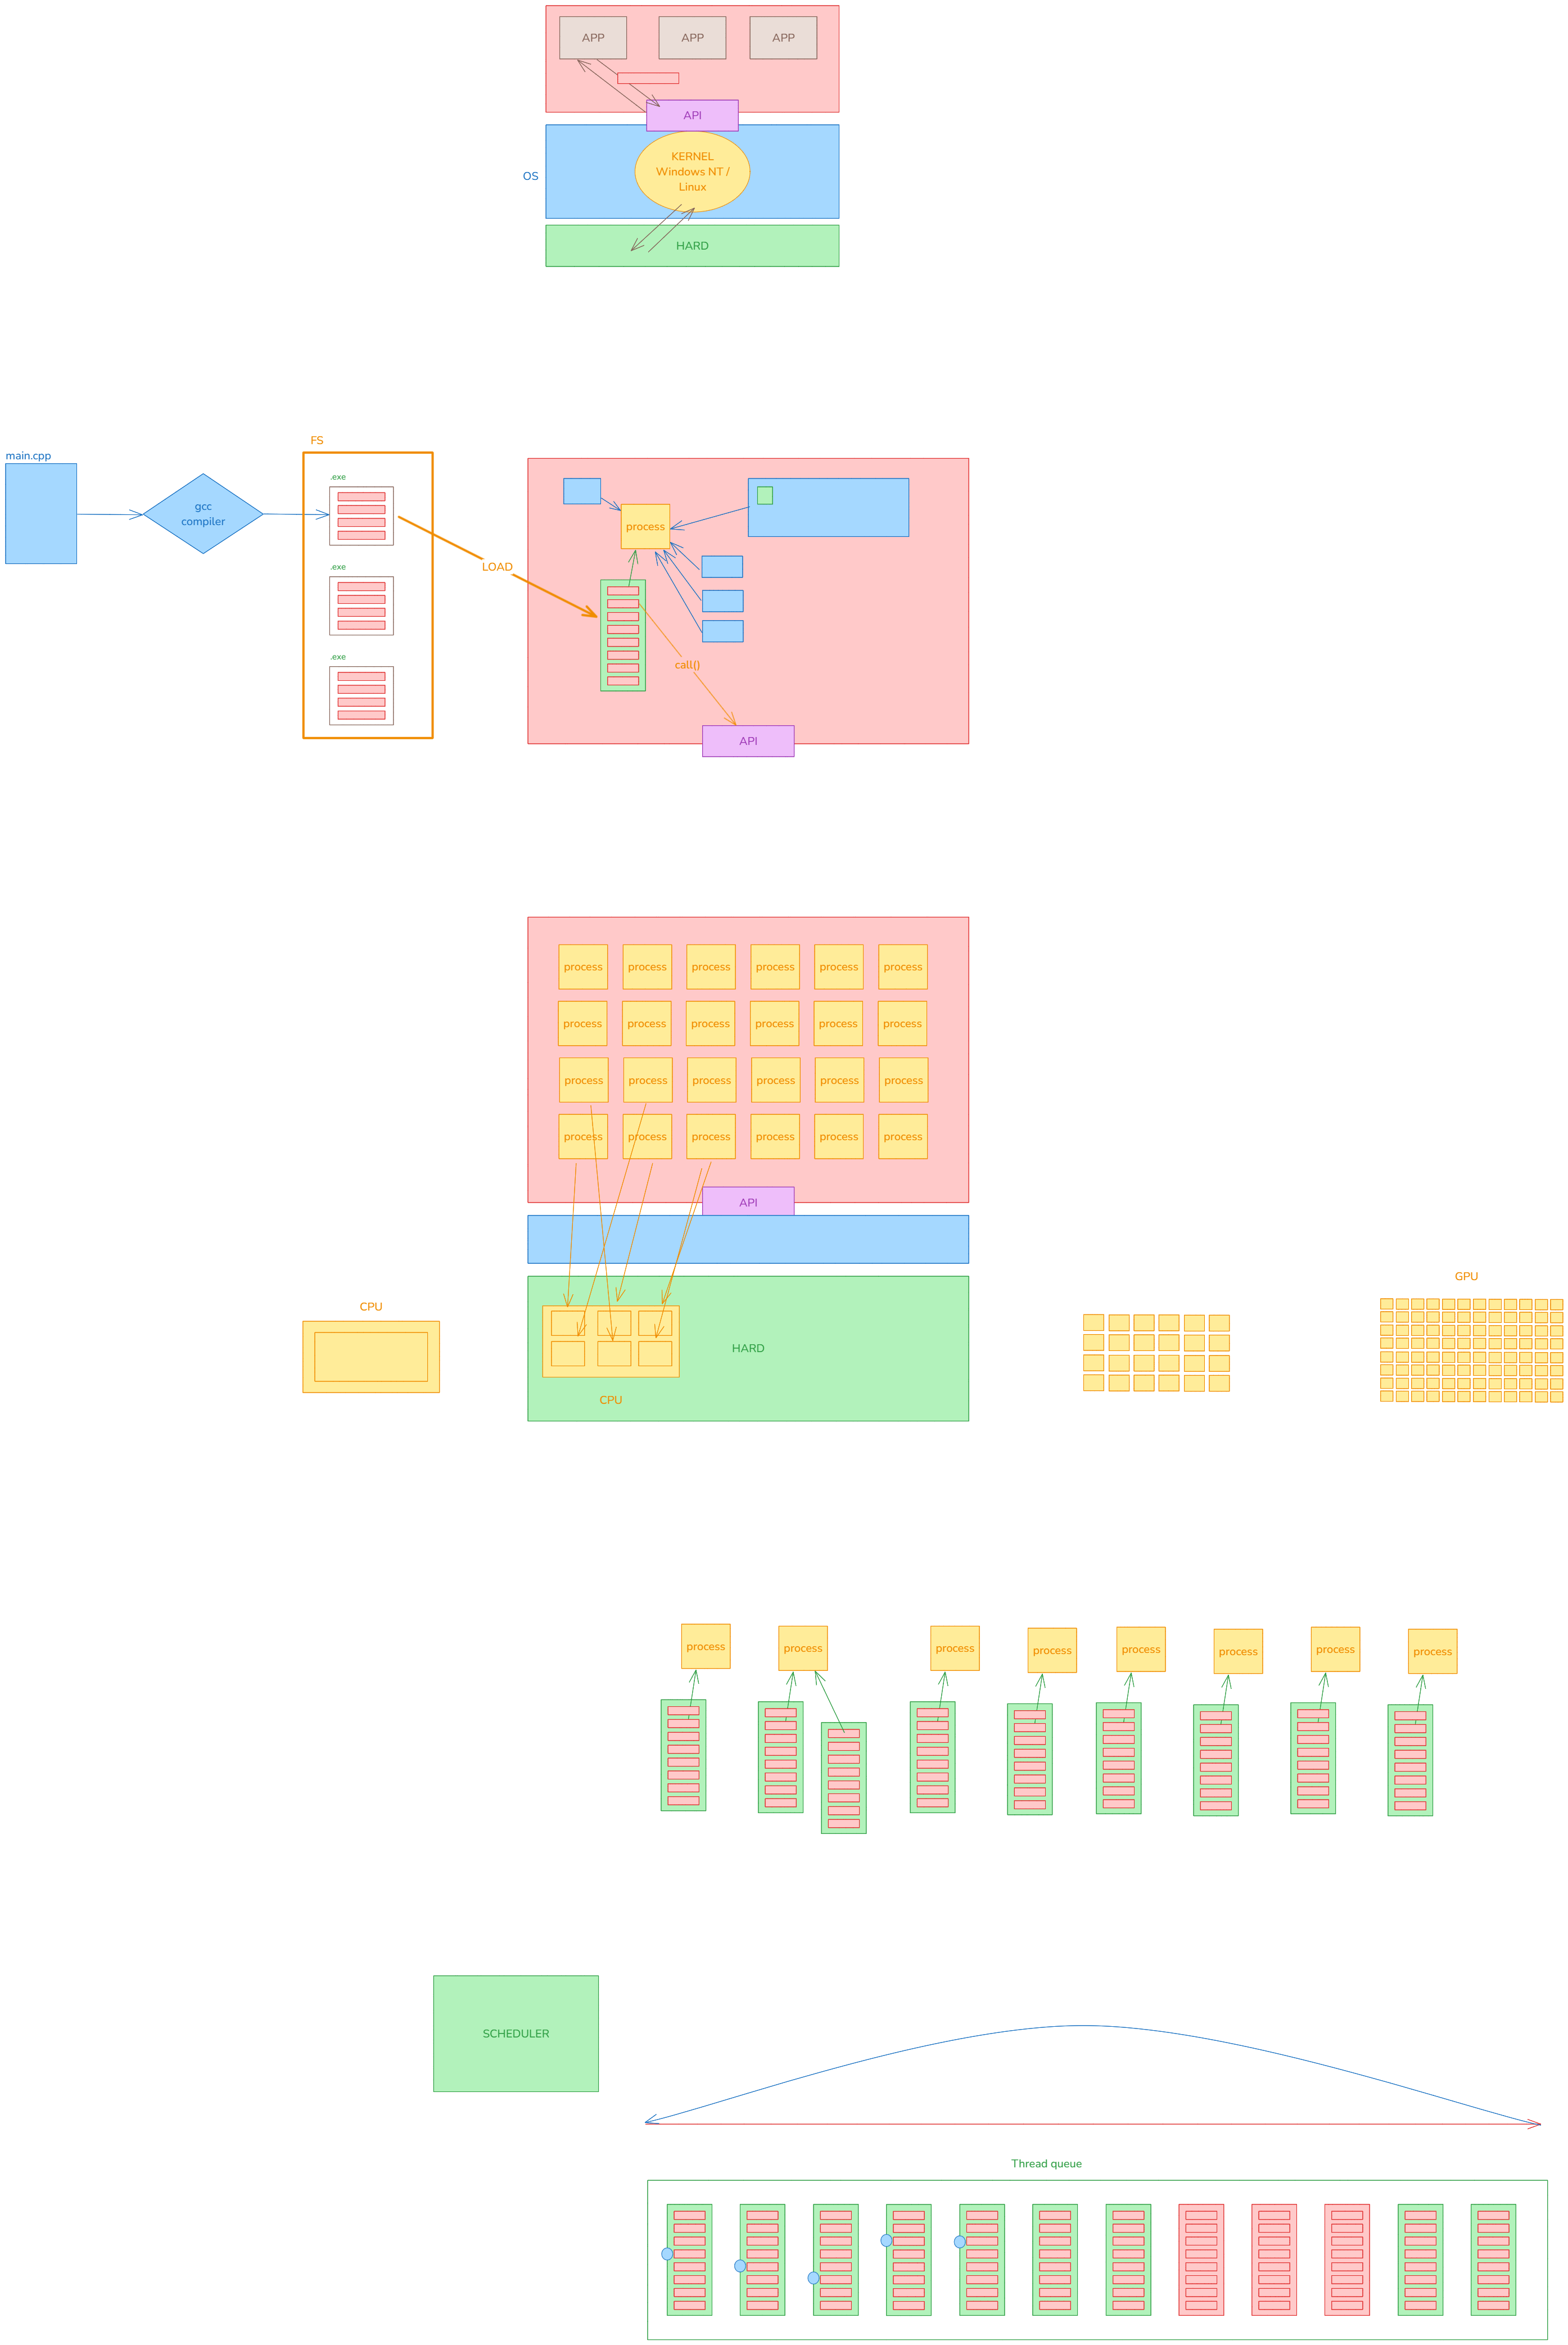
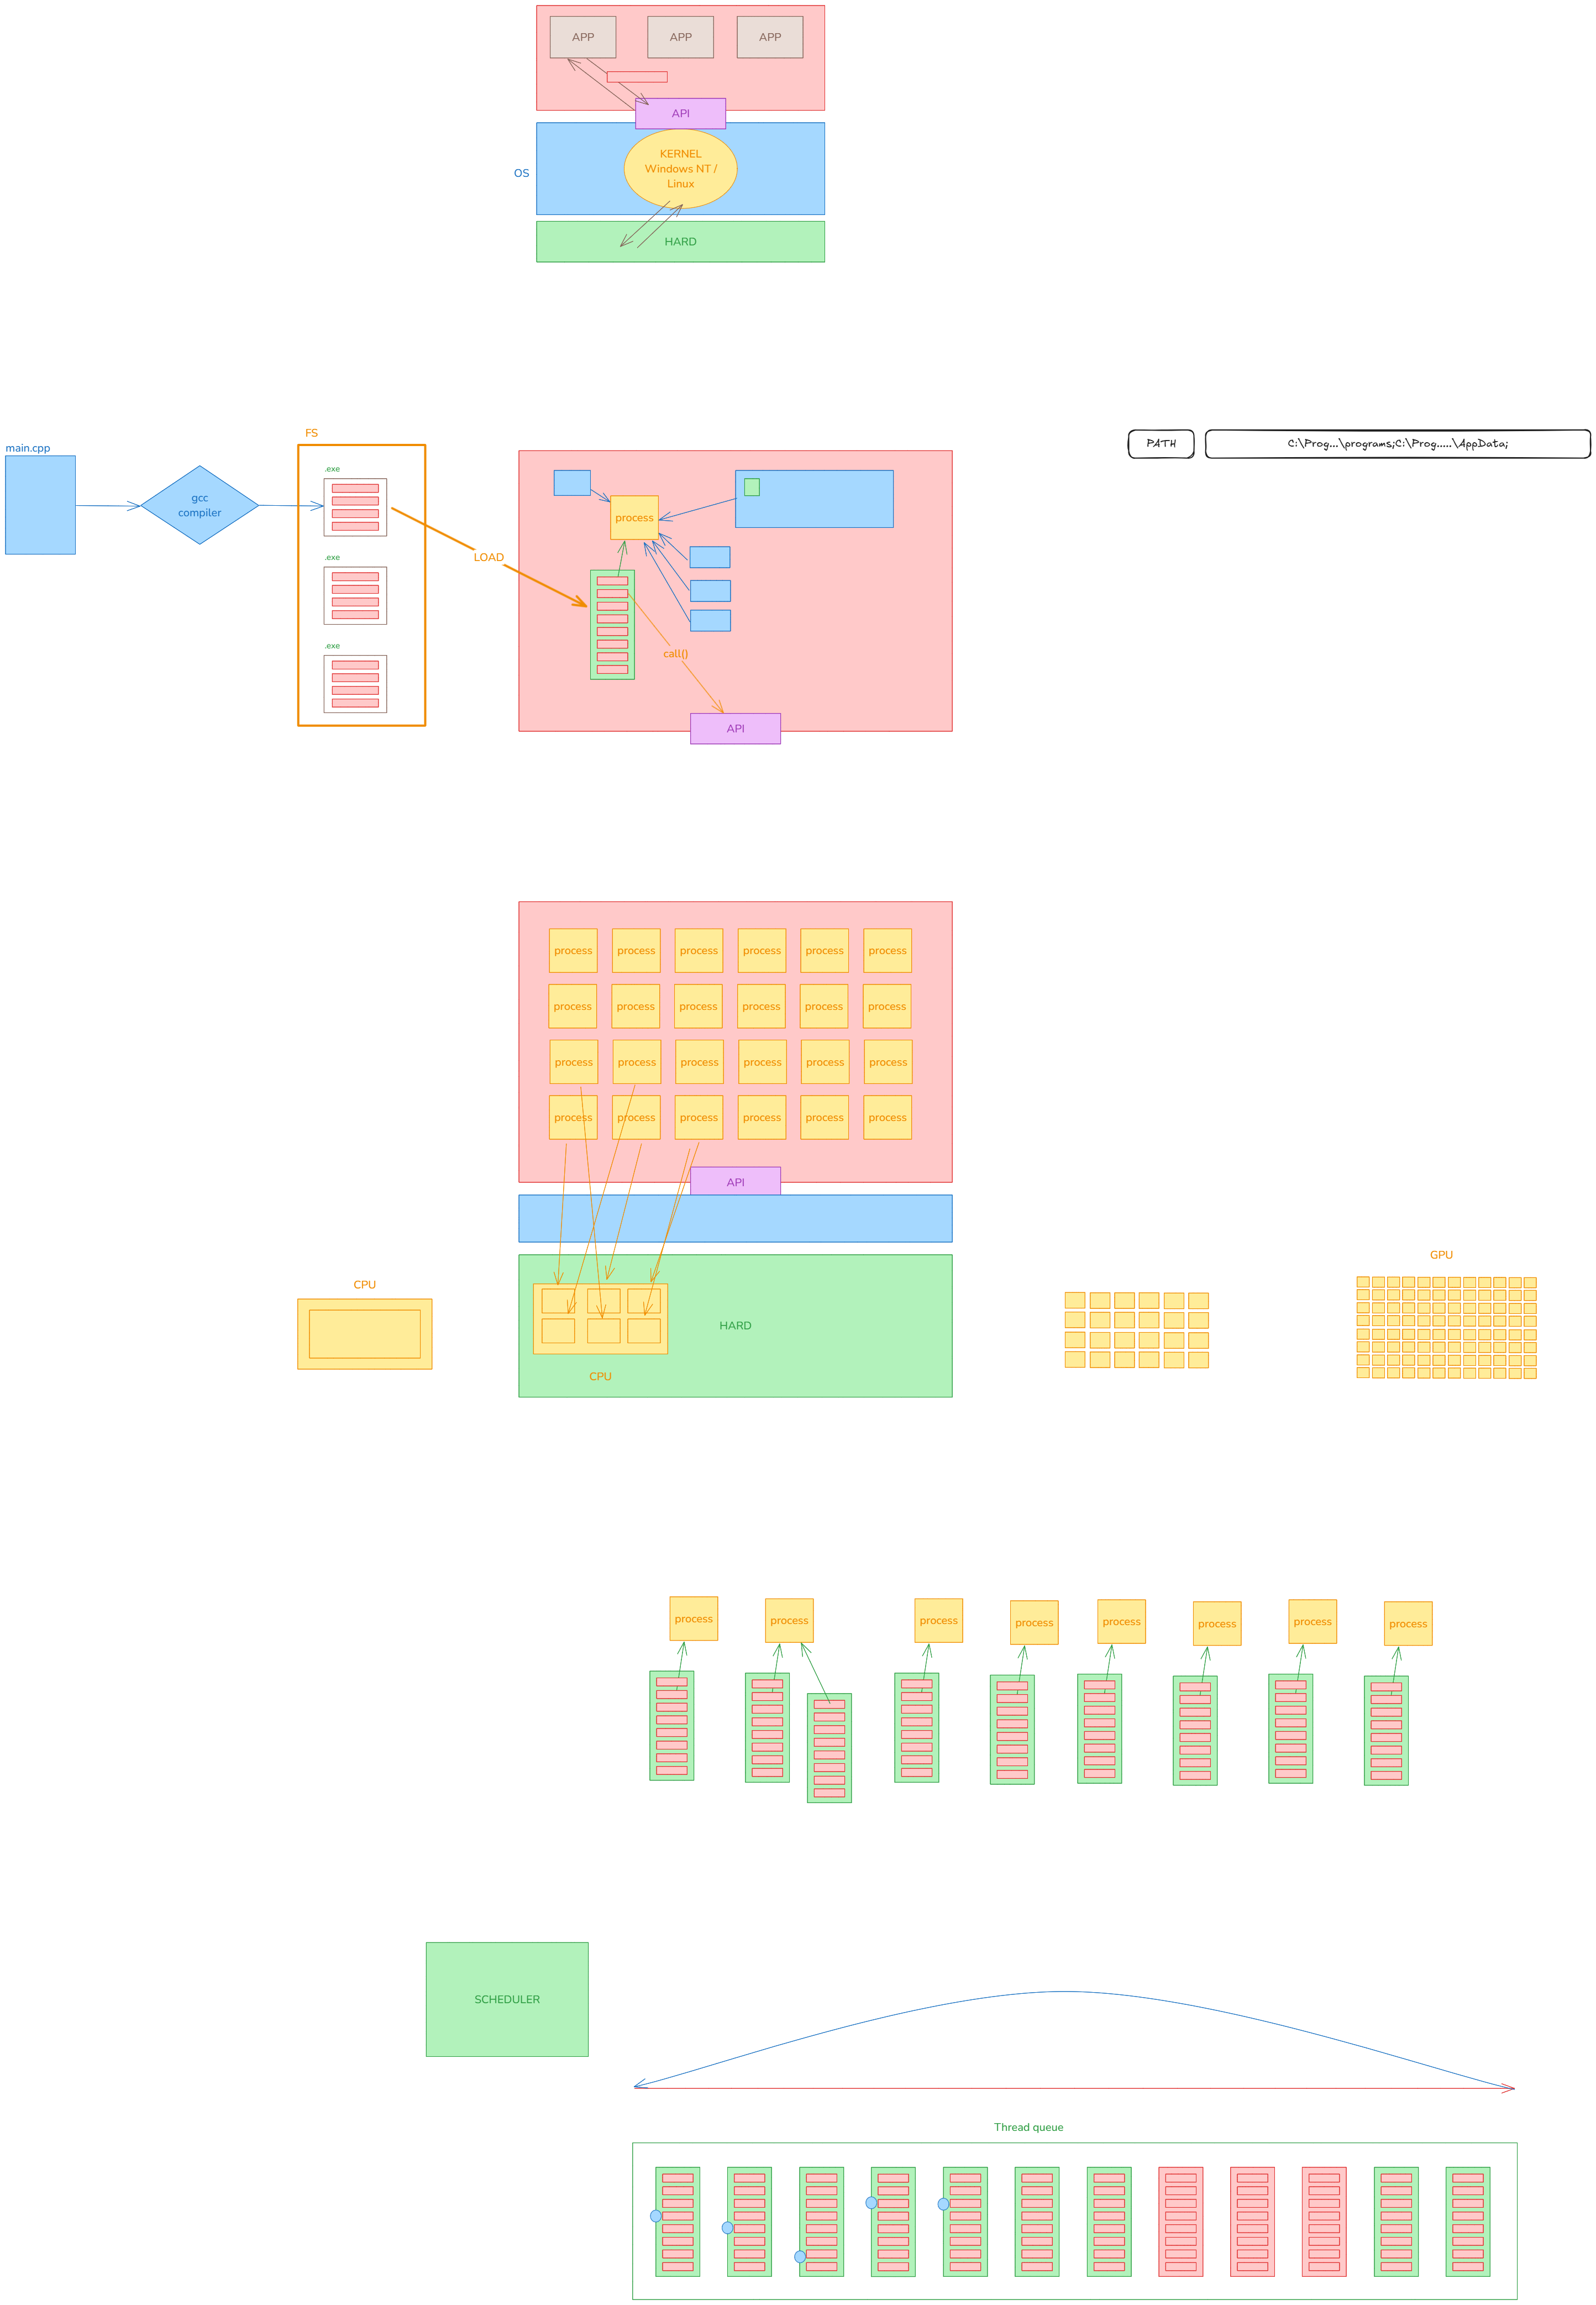
add: assemblies

diff --git a/01_process/01_process/Program.cs b/01_process/01_process/Program.cs
@@ -35,23 +35,44 @@ using System.Diagnostics;
 //}
 
 
+//try
+//{
+//    Process p = GetProcessFromUser();
+//    ProcessThreadCollection threads = p.Threads;
+//    foreach (ProcessThread t in threads)
+//    {
+//        Console.WriteLine($"{t.Id}\t{t.StartTime.ToShortTimeString()}\t{t.PriorityLevel}\t{p.VirtualMemorySize64}");
+//    }
+//}
+//catch (Exception ex)
+//{
+//    Console.WriteLine($"ERROR: {ex.Message}");
+//}
+
+
+
+
+// Process.Start("notepad");
+// Process.Start(@"C:\Program Files\Google\Chrome\Application\chrome.exe", "https://wikipedia.org --incognito");
+// Process.Start(@"C:\Users\ThinkPad\Desktop\01_test.exe");
+
+
+
+
 try
 {
     Process p = GetProcessFromUser();
-    ProcessThreadCollection threads = p.Threads;
-    foreach(ProcessThread t in threads)
-    {
-        Console.WriteLine($"{t.Id}\t{t.StartTime.ToShortTimeString()}\t{t.PriorityLevel}\t{p.VirtualMemorySize64}");
-    }
+
+    ProcessModuleCollection modules = p.Modules;
+
+    foreach (ProcessModule m in modules)
+        Console.WriteLine($"{m.ModuleName}\t{m.ModuleMemorySize}");
+    
 }
 catch (Exception ex)
 {
     Console.WriteLine($"ERROR: {ex.Message}");
 }
-
-
-
-
 
 
 

diff --git a/01_process/MathLib/Calculator.cs b/01_process/MathLib/Calculator.cs
@@ -1,0 +1,15 @@
+namespace MathLib;
+
+public class Calculator
+{
+    public int Sum(int a, int b) => a + b;
+    public static int Factorial(int n)
+    {
+        int result = 1;
+
+        for (int i = 0; i <= n; ++i)
+            result *= i;
+
+        return result;
+    }
+}

diff --git a/01_process/02_assemblies/Program.cs b/01_process/02_assemblies/Program.cs
@@ -1,0 +1,1 @@
+